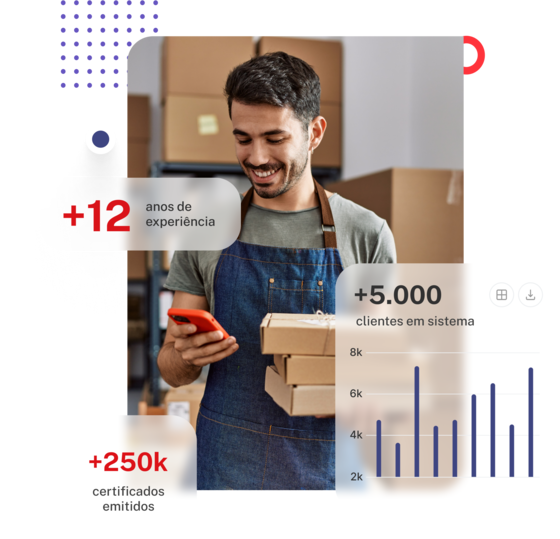
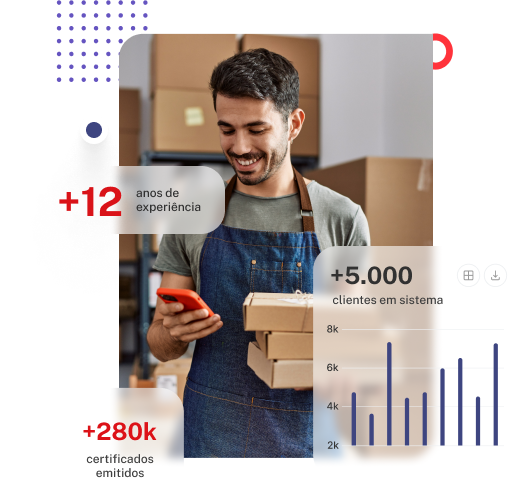
feat: imagens para vimeo

diff --git a/app/[slug]/page.js b/app/[slug]/page.js
@@ -9,8 +9,10 @@ import {
   neutralDark,
   neutralMid,
   neutralLight,
-  red
+  red,
+  blue
 } from '../base/Colors';
+import SolidIcon from '../base/SolidIcon';
 import { Overline, Text, Title } from '../base/Typography';
 import {
   Container,
@@ -66,11 +68,11 @@ export default function Segment() {
   return (
     <main className="pt-24">
       <ModalForm open={openModal} onClose={() => setOpenModal(false)} />
-      {data?.attributes?.produto[0]?.link_vimeo && (
+      {data?.attributes?.generic?.link_vimeo && (
         <ModalVimeo
           open={openModalVimeo}
           onClose={() => setOpenModalVimeo(false)}
-          link={data?.attributes?.produto[0]?.link_vimeo}
+          link={data?.attributes?.generic?.link_vimeo}
         />
       )}
       <HeroPage
@@ -175,23 +177,46 @@ export default function Segment() {
         <>
           <Container bgColor={neutralLight[100]} newClasses="py-16">
             <div className="col-span-4 lg:col-span-6 flex justify-center">
-              {data?.attributes?.produto[0]?.link_vimeo ? (
+              {data?.attributes?.generic?.link_vimeo ? (
                 <div
-                  className="cursor-pointer"
+                  className="cursor-pointer relative"
                   onClick={() => setOpenModalVimeo(true)}
                 >
                   <Image
-                    src="/bg-play-certificado-digital.png"
-                    height={324}
-                    width={564}
+                    src={
+                      data?.attributes?.generic?.image_produto?.data?.attributes
+                        ?.url
+                    }
+                    height={
+                      data?.attributes?.generic?.image_produto?.data?.attributes
+                        ?.height
+                    }
+                    width={
+                      data?.attributes?.generic?.image_produto?.data?.attributes
+                        ?.width
+                    }
+                  />
+                  <SolidIcon
+                    icon="faCirclePlay"
+                    iconColor={red[600]}
+                    newClasses="absolute bg-white h-16 left-[50%] rounded-full top-[50%] translate-x-[-50%] translate-y-[-50%] w-16"
                   />
                 </div>
               ) : (
                 <div>
                   <Image
-                    src="/bg-play-certificado-digital-without-player.png"
-                    height={324}
-                    width={564}
+                    src={
+                      data?.attributes?.generic?.image_produto?.data?.attributes
+                        ?.url
+                    }
+                    height={
+                      data?.attributes?.generic?.image_produto?.data?.attributes
+                        ?.height
+                    }
+                    width={
+                      data?.attributes?.generic?.image_produto?.data?.attributes
+                        ?.width
+                    }
                   />
                 </div>
               )}

diff --git a/app/base/SolidIcon/index.js b/app/base/SolidIcon/index.js
@@ -34,6 +34,7 @@ export default function SolidIcon({ icon, iconColor, newClasses }) {
     faChevronRight: Icon.faChevronRight,
     faCircleDot: Icon.faCircleDot,
     faCircleExclamation: Icon.faCircleExclamation,
+    faCirclePlay: Icon.faCirclePlay,
     faCirclePlus: Icon.faCirclePlus,
     faClipboardList: Icon.faClipboardList,
     faClockRotateLeft: Icon.faClockRotateLeft,

diff --git a/app/graphql/queries.js b/app/graphql/queries.js
@@ -294,6 +294,16 @@ const getSegment = gql`
                 }
               }
             }
+            image_produto {
+              data {
+                attributes {
+                  url
+                  width
+                  height
+                }
+              }
+            }
+            link_vimeo
           }
           theme {
             first_color
